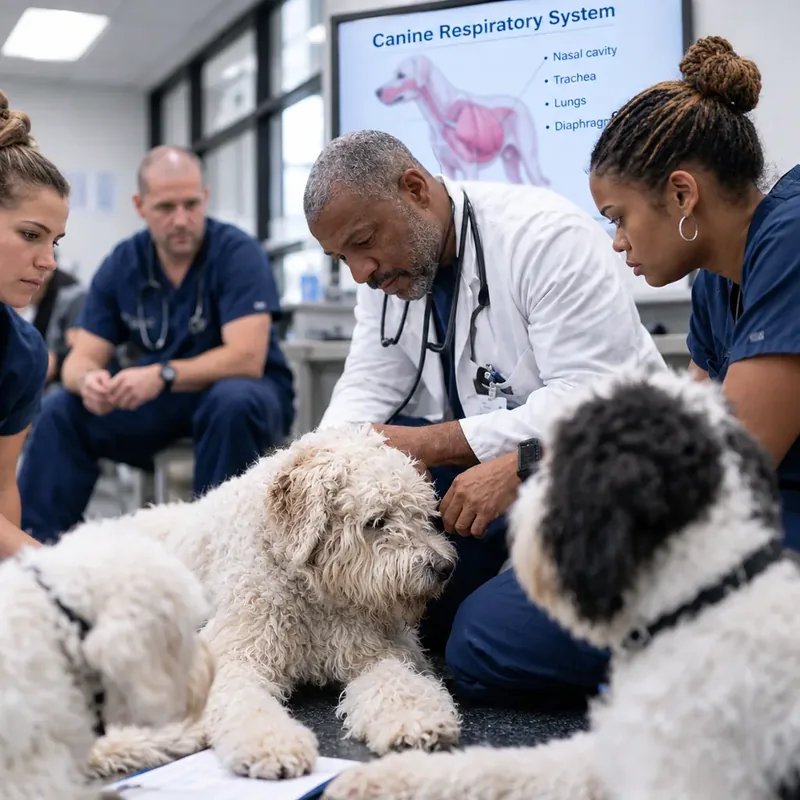
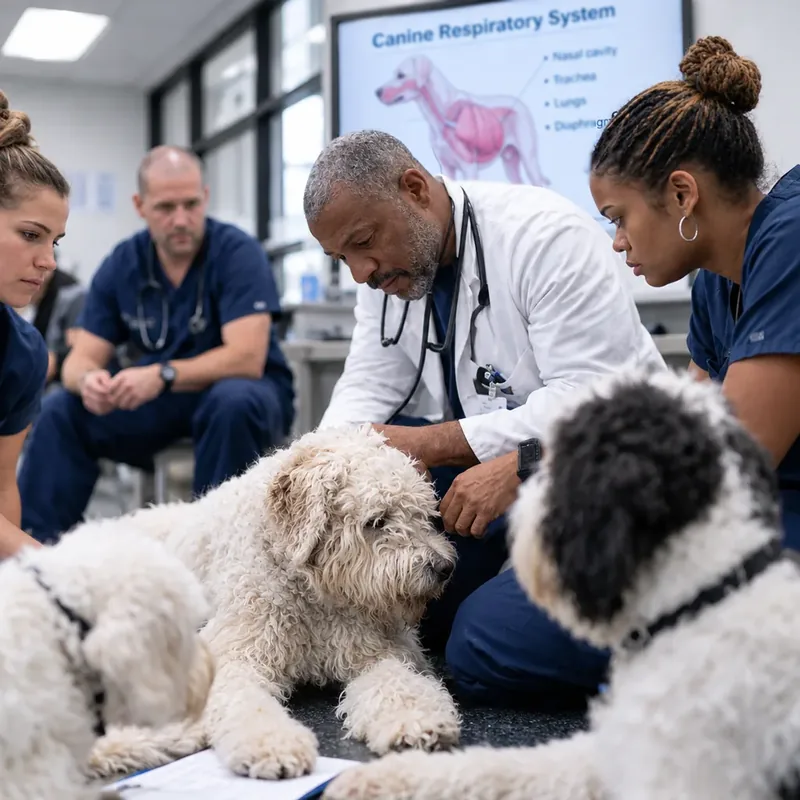
feat(vai.vet): soften the whole background slide (text included) in the Academy expert-led photo

Changed region(s): [[0.4688, 0.0, 0.7812, 0.0625], [0.6875, 0.0625, 0.75, 0.1875]]

diff --git a/src/lib/photography/library.ts b/src/lib/photography/library.ts
@@ -40,7 +40,7 @@ export interface PhotoEntry {
 export const PHOTO_WIDTHS = [480, 800, 1024] as const;
 export const PHOTO_BASE = '/photography/library';
 /** Bump when library files are replaced in place: it is appended to every image URL (?v=) so browsers and the CDN fetch the new files instead of serving a cached copy for hours. Last bump: 2026-10-10 (c), surgeon-theatre was replaced with the founder's corrected picture (no horse, canine thorax radiograph). */
-export const PHOTO_VERSION = '20261011d';
+export const PHOTO_VERSION = '20261011e';
 
 
 
